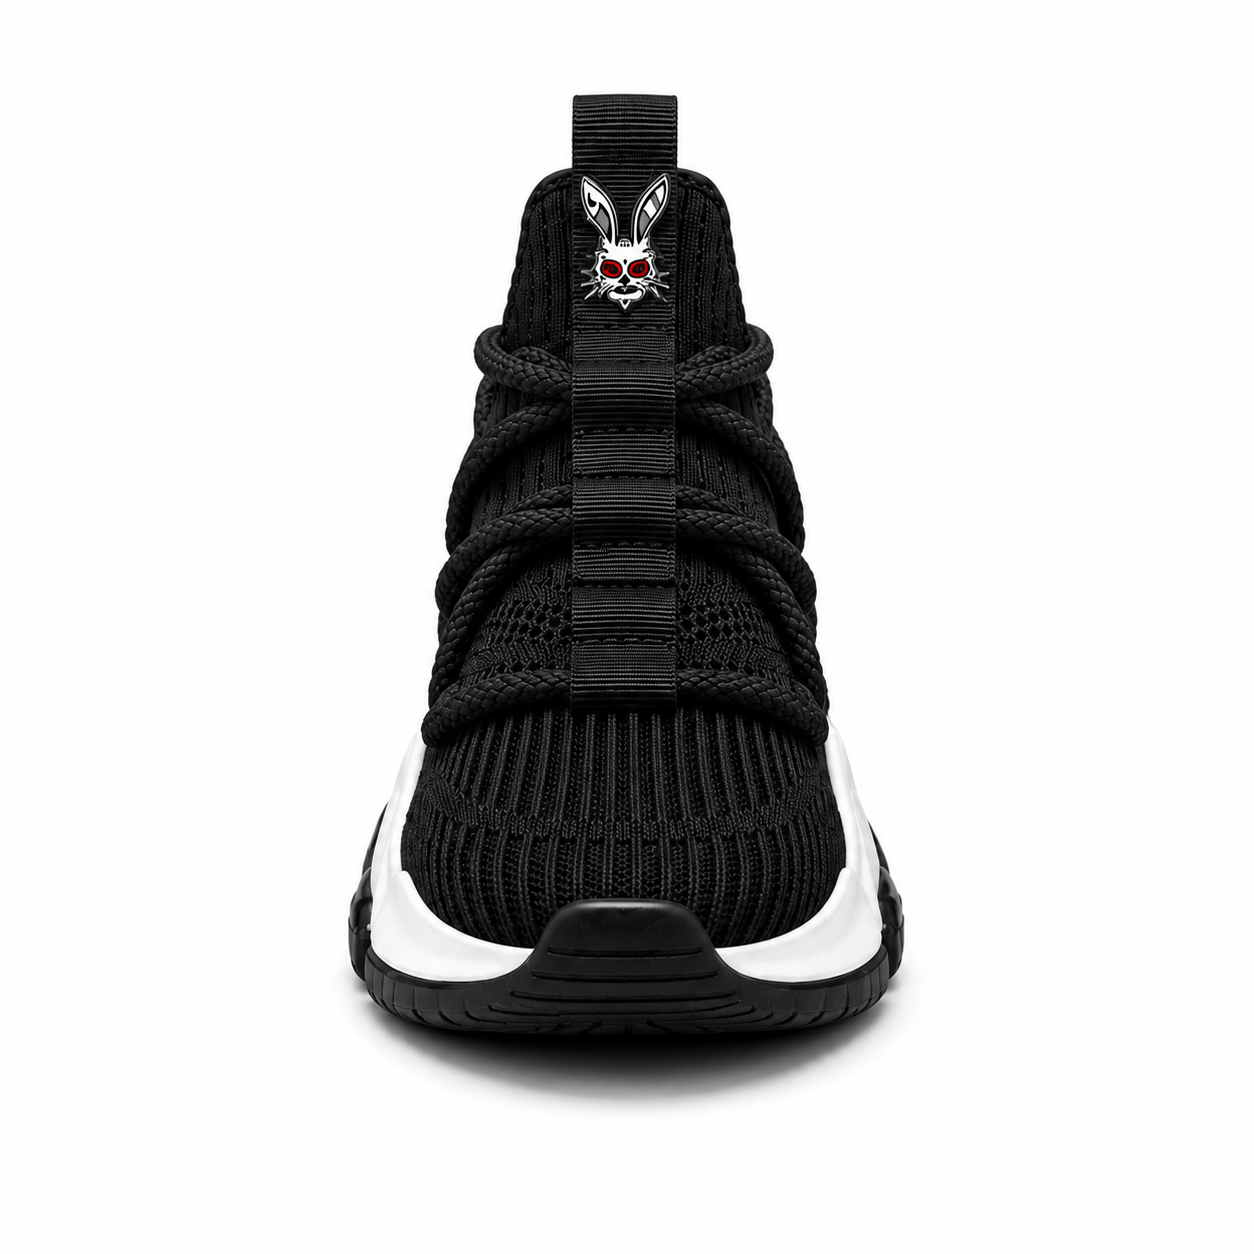
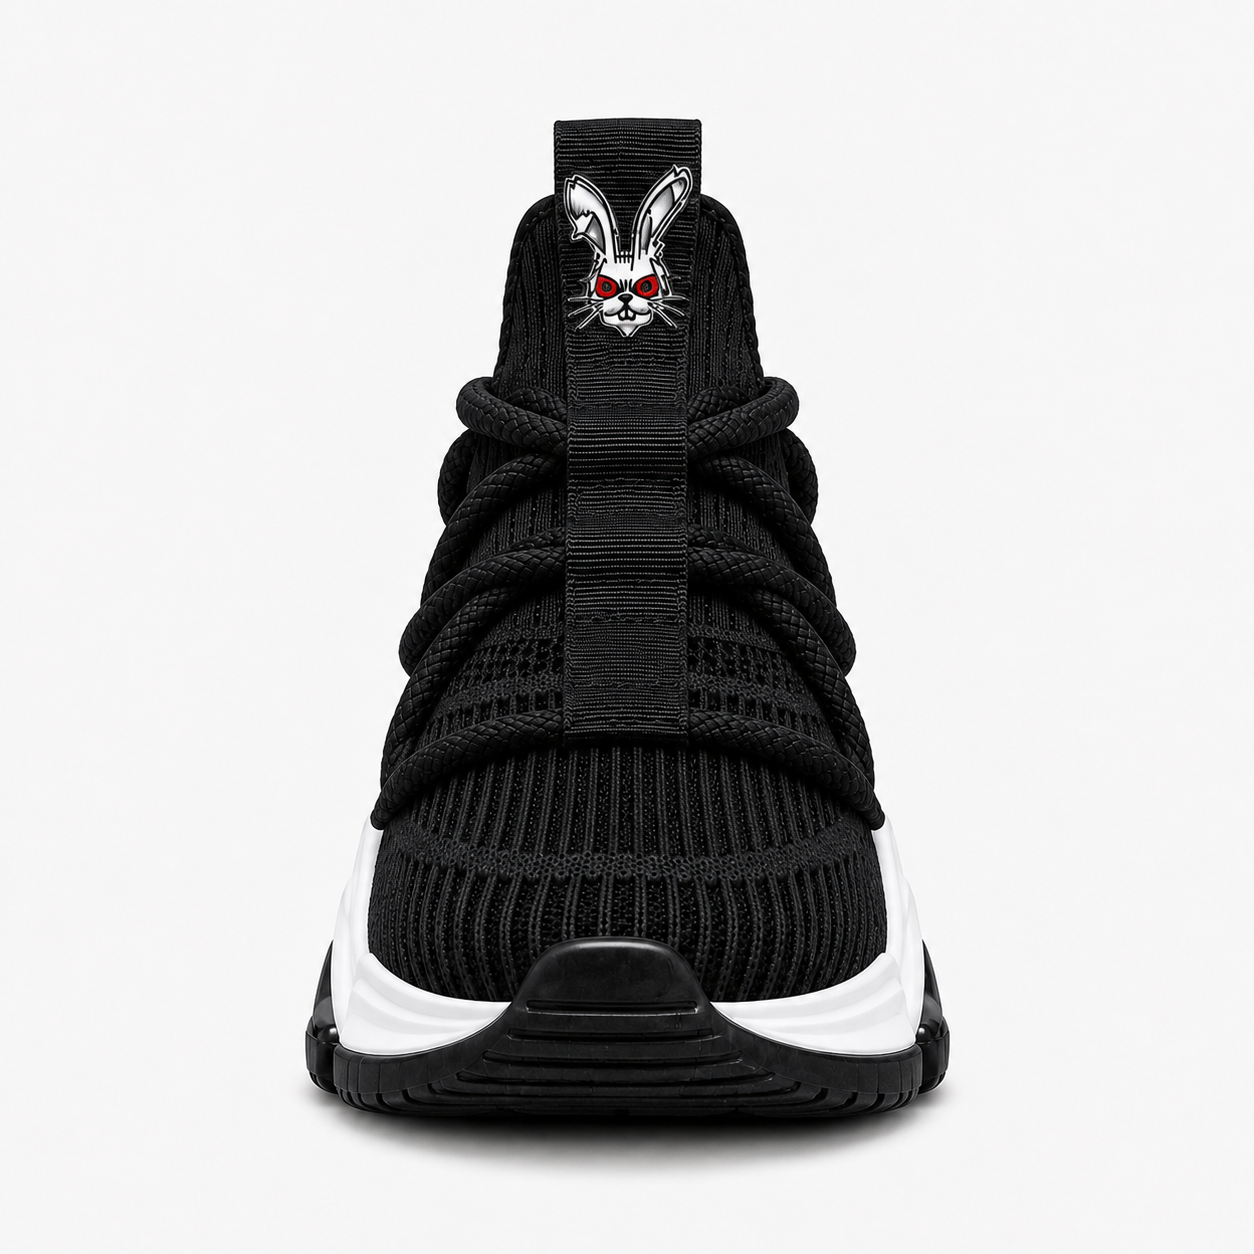
Update Obsidian (black) colourway with new product images including side view

Changed region(s): [[0.2177, 0.0622, 0.7775, 0.9641]]

diff --git a/src/components/product/PDPHero.tsx b/src/components/product/PDPHero.tsx
@@ -9,7 +9,7 @@ const VIEWS = ['FRONT', 'SIDE', 'BACK', 'TOP'] as const
 type View = typeof VIEWS[number]
 
 const VIEW_IMAGES: Record<string, Record<View, string>> = {
-  obs: { FRONT: '/assets/shoe-black-front.png', SIDE: '/assets/shoe-black.jpg', BACK: '/assets/shoe-black-rear.png', TOP: '/assets/shoe-black-top.png' },
+  obs: { FRONT: '/assets/shoe-black-front.png', SIDE: '/assets/shoe-black-side.png', BACK: '/assets/shoe-black-rear.png', TOP: '/assets/shoe-black-top.png' },
   car: { FRONT: '/assets/shoe-red-front.png', SIDE: '/assets/shoe-red-side.jpeg', BACK: '/assets/shoe-red-rear.png', TOP: '/assets/shoe-red-top.png' },
   ice: { FRONT: '/assets/shoe-blue-front.png',  SIDE: '/assets/shoe-blue.jpg',  BACK: '/assets/shoe-blue-rear.png',  TOP: '/assets/shoe-blue-top.png'  },
   ros: { FRONT: '/assets/shoe-pink-front.png',  SIDE: '/assets/shoe-pink.jpg',  BACK: '/assets/shoe-pink-rear.png',  TOP: '/assets/shoe-pink-top.png'  },
